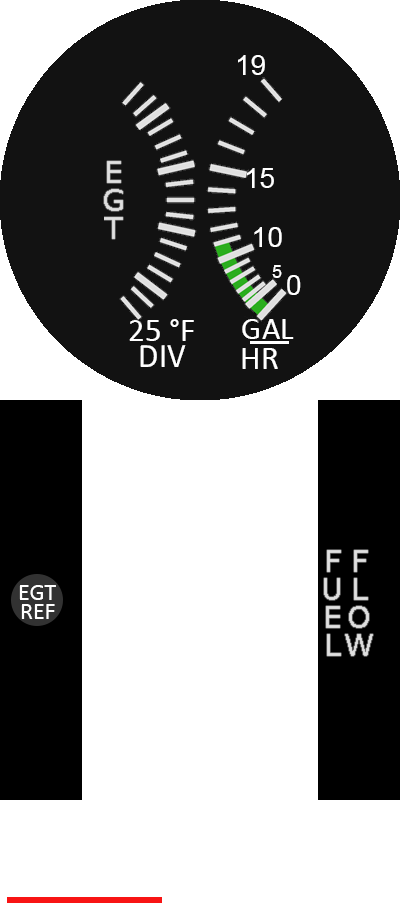
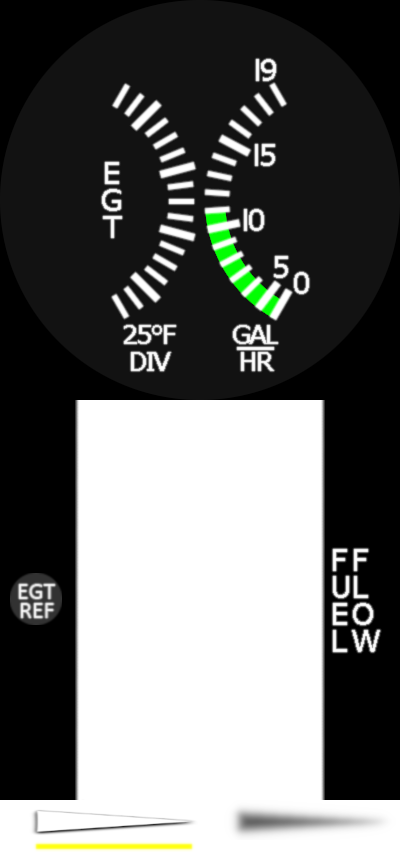
Implement last few gauges

Changed region(s): [[0.0, 0.061, 1.0, 1.0], [0.6, 0.0, 1.0, 0.2136], [0.0, 0.0, 0.42, 0.1831]]

diff --git a/instrument-panel/instruments/egt.cpp b/instrument-panel/instruments/egt.cpp
@@ -19,7 +19,7 @@ void egt::resize()
 {
     destroyBitmaps();
 
-    // Create bitmaps scaled to correct size (original size is 800)
+    // Create bitmaps scaled to correct size (original size is 400)
     scaleFactor = size / 400.0f;
 
     // 0 = Original (loaded) bitmap
@@ -46,24 +46,18 @@ void egt::resize()
     al_draw_scaled_bitmap(orig, 0, 400, 400, 400, 0, 0, size, size, 0);
     addBitmap(bmp);
 
-    // 4 = Flow Pointer
+    // 4 = Pointer
     bmp = al_create_bitmap(200, 40);
     al_set_target_bitmap(bmp);
     al_draw_bitmap_region(orig, 0, 800, 200, 40, 0, 0, 0);
     addBitmap(bmp);
 
-    // 5 = EGT Pointer
-    bmp = al_create_bitmap(200, 40);
+    // 5 = Ref pointer
+    bmp = al_create_bitmap(200, 12);
     al_set_target_bitmap(bmp);
-    al_draw_bitmap_region(orig, 14, 840, 139, 40, 0, 0, 0);
+    al_draw_bitmap_region(orig, 0, 840, 200, 12, 0, 0, 0);
     addBitmap(bmp);
 
-    // 6 = EGT Ref Pointer
-    bmp = al_create_bitmap(200, 40);
-    al_set_target_bitmap(bmp);
-    al_draw_bitmap_region(orig, 7, 880, 155, 40, 0, 0, 0);
-    addBitmap(bmp);
-    
     al_set_target_backbuffer(globals.display);
 }
 
@@ -85,14 +79,14 @@ void egt::render()
     // Add dials
     al_draw_bitmap(bitmaps[2], 0, 0, 0);
 
-    // Add Flow pointer
-    al_draw_scaled_rotated_bitmap(bitmaps[4], 186, 20, 386 * scaleFactor, 200 * scaleFactor, scaleFactor, scaleFactor, flowAngle * DegreesToRadians, 0);
+    // Add ref pointer
+    al_draw_scaled_rotated_bitmap(bitmaps[5], 60, 6, 60 * scaleFactor, 200 * scaleFactor, scaleFactor, scaleFactor, egtRefAngle * DegreesToRadians, 0);
 
-    // Add EGT pointer
-    al_draw_scaled_rotated_bitmap(bitmaps[5], 0, 20, 38 * scaleFactor, 200 * scaleFactor, scaleFactor, scaleFactor, egtAngle * DegreesToRadians, 0);
+    // Add left pointer
+    al_draw_scaled_rotated_bitmap(bitmaps[4], 60, 20, 60 * scaleFactor, 200 * scaleFactor, scaleFactor, scaleFactor, egtAngle * DegreesToRadians, 0);
 
-    // Add EGT Ref pointer
-    al_draw_scaled_rotated_bitmap(bitmaps[6], 0, 20, 38 * scaleFactor, 200 * scaleFactor, scaleFactor, scaleFactor, egtRefAngle * DegreesToRadians, 0);
+    // Add right pointer
+    al_draw_scaled_rotated_bitmap(bitmaps[4], 60, 20, 340 * scaleFactor, 200 * scaleFactor, scaleFactor, scaleFactor, flowAngle * DegreesToRadians, 0);
 
     // Add top layer
     al_draw_bitmap(bitmaps[3], 0, 0, 0);
@@ -112,6 +106,13 @@ void egt::render()
 /// </summary>
 void egt::update()
 {
+    // Check for aircraft change
+    bool aircraftChanged = (loadedAircraft != globals.aircraft);
+    if (aircraftChanged) {
+        loadedAircraft = globals.aircraft;
+        egtRefAngle = 62;
+    }
+
     // Check for position or size change
     long *settings = globals.simVars->readSettings(name, xPos, yPos, size);
 
@@ -124,19 +125,31 @@ void egt::update()
     }
 
     // Calculate values
-    if (simVars->exhaustGasTemp < 680)
-        egtAngle = 52;
-    else
-        egtAngle = -0.4496*simVars->exhaustGasTemp+357.74;
-    float tmp = simVars->exhaustGasTempGES/16384;
-    egtRefAngle = 101.718*pow(tmp,3) - 104.843 * pow(tmp, 2) - 96.894 * tmp + 49.022;
-    tmp = simVars->engineFuelFlow;
-    flowAngle = -.02 * pow(tmp, 3) + .6759 * pow(tmp, 2) - 1.6837 * tmp - 41.4675;
+    egtAngle = 62 - (simVars->exhaustGasTemp - 680) * 0.527885;
+    if (egtAngle < -60) {
+        egtAngle = -60;
+    }
+    else if (egtAngle > 62) {
+        egtAngle = 62;
+    }
 
-    // Gauge not working so just zero out for now
-    egtAngle = 52;
-    egtRefAngle = 49;
-    flowAngle = -43;
+    if (egtAngle < egtRefAngle) {
+        egtRefAngle = egtAngle;
+    }
+
+    if (simVars->engineFuelFlow > 5) {
+        flowAngle = 126 + (simVars->engineFuelFlow - 5) * 8;
+    }
+    else {
+        flowAngle = 118 + simVars->engineFuelFlow * 1.6;
+    }
+
+    if (flowAngle < 118) {
+        flowAngle = 118;
+    }
+    else if (flowAngle >238) {
+        flowAngle = 238;
+    }
 }
 
 /// <summary>
@@ -145,7 +158,5 @@ void egt::update()
 void egt::addVars()
 {
     globals.simVars->addVar(name, "General Eng Exhaust Gas Temperature:1", false, 1, 0);
-    globals.simVars->addVar(name, "Eng Exhaust Gas Temperature GES:1", false, 1, 0);
     globals.simVars->addVar(name, "Eng Fuel Flow GPH:1", false, 1, 0);
-
 }

diff --git a/instrument-panel/instruments/vac.cpp b/instrument-panel/instruments/vac.cpp
@@ -7,6 +7,7 @@ vac::vac(int xPos, int yPos, int size) : instrument(xPos, yPos, size)
 {
     setName("VAC");
     addVars();
+    simVars = &globals.simVars->simVars;
     resize();
 }
 
@@ -17,7 +18,7 @@ void vac::resize()
 {
     destroyBitmaps();
 
-    // Create bitmaps scaled to correct size (original size is 800)
+    // Create bitmaps scaled to correct size (original size is 400)
     scaleFactor = size / 400.0f;
 
     // 0 = Original (loaded) bitmap
@@ -32,10 +33,22 @@ void vac::resize()
     ALLEGRO_BITMAP* bmp = al_create_bitmap(size, size);
     addBitmap(bmp);
 
-    // 2 = Main dial
+    // 2 = Dials
     bmp = al_create_bitmap(size, size);
     al_set_target_bitmap(bmp);
     al_draw_scaled_bitmap(orig, 0, 0, 400, 400, 0, 0, size, size, 0);
+    addBitmap(bmp);
+
+    // 3 = Top layer
+    bmp = al_create_bitmap(size, size);
+    al_set_target_bitmap(bmp);
+    al_draw_scaled_bitmap(orig, 0, 400, 400, 400, 0, 0, size, size, 0);
+    addBitmap(bmp);
+
+    // 4 = Pointer
+    bmp = al_create_bitmap(200, 40);
+    al_set_target_bitmap(bmp);
+    al_draw_bitmap_region(orig, 0, 800, 200, 40, 0, 0, 0);
     addBitmap(bmp);
 
     al_set_target_backbuffer(globals.display);
@@ -56,8 +69,17 @@ void vac::render()
     // Draw stuff into dest bitmap
     al_set_target_bitmap(bitmaps[1]);
 
-    // Add main dial
+    // Add dials
     al_draw_bitmap(bitmaps[2], 0, 0, 0);
+
+    // Add left pointer
+    al_draw_scaled_rotated_bitmap(bitmaps[4], 60, 20, 60 * scaleFactor, 200 * scaleFactor, scaleFactor, scaleFactor, vacAngle * DegreesToRadians, 0);
+
+    // Add right pointer
+    al_draw_scaled_rotated_bitmap(bitmaps[4], 60, 20, 340 * scaleFactor, 200 * scaleFactor, scaleFactor, scaleFactor, ampAngle * DegreesToRadians, 0);
+
+    // Add top layer
+    al_draw_bitmap(bitmaps[3], 0, 0, 0);
 
     // Position dest bitmap on screen
     al_set_target_backbuffer(globals.display);
@@ -85,11 +107,22 @@ void vac::update()
         resize();
     }
 
-    // Get latest FlightSim variables
-    SimVars* simVars = &globals.simVars->simVars;
-
     // Calculate values
-    angle = simVars->adiBank / 100.0f;
+    vacAngle = 60 - (simVars->suctionPressure - 3) * 30;
+    if (vacAngle < -60) {
+        vacAngle = -60;
+    }
+    else if (vacAngle > 60) {
+        vacAngle = 60;
+    }
+
+    ampAngle = 119 + (simVars->batteryLoad + 60);
+    if (ampAngle < 119) {
+        ampAngle = 119;
+    }
+    else if (ampAngle > 239) {
+        ampAngle = 239;
+    }
 }
 
 /// <summary>

diff --git a/instrument-panel/instruments/oil.cpp b/instrument-panel/instruments/oil.cpp
@@ -18,7 +18,7 @@ void oil::resize()
 {
     destroyBitmaps();
 
-    // Create bitmaps scaled to correct size (original size is 800)
+    // Create bitmaps scaled to correct size (original size is 400)
     scaleFactor = size / 400.0f;
 
     // 0 = Original (loaded) bitmap
@@ -33,10 +33,22 @@ void oil::resize()
     ALLEGRO_BITMAP* bmp = al_create_bitmap(size, size);
     addBitmap(bmp);
 
-    // 2 = Main dial
+    // 2 = Dials
     bmp = al_create_bitmap(size, size);
     al_set_target_bitmap(bmp);
     al_draw_scaled_bitmap(orig, 0, 0, 400, 400, 0, 0, size, size, 0);
+    addBitmap(bmp);
+
+    // 3 = Top layer
+    bmp = al_create_bitmap(size, size);
+    al_set_target_bitmap(bmp);
+    al_draw_scaled_bitmap(orig, 0, 400, 400, 400, 0, 0, size, size, 0);
+    addBitmap(bmp);
+
+    // 4 = Pointer
+    bmp = al_create_bitmap(200, 40);
+    al_set_target_bitmap(bmp);
+    al_draw_bitmap_region(orig, 0, 800, 200, 40, 0, 0, 0);
     addBitmap(bmp);
 
     al_set_target_backbuffer(globals.display);
@@ -57,8 +69,17 @@ void oil::render()
     // Draw stuff into dest bitmap
     al_set_target_bitmap(bitmaps[1]);
 
-    // Add main dial
+    // Add dials
     al_draw_bitmap(bitmaps[2], 0, 0, 0);
+
+    // Add left pointer
+    al_draw_scaled_rotated_bitmap(bitmaps[4], 60, 20, 60 * scaleFactor, 200 * scaleFactor, scaleFactor, scaleFactor, tempAngle * DegreesToRadians, 0);
+
+    // Add right pointer
+    al_draw_scaled_rotated_bitmap(bitmaps[4], 60, 20, 340 * scaleFactor, 200 * scaleFactor, scaleFactor, scaleFactor, pressureAngle * DegreesToRadians, 0);
+
+    // Add top layer
+    al_draw_bitmap(bitmaps[3], 0, 0, 0);
 
     // Position dest bitmap on screen
     al_set_target_backbuffer(globals.display);
@@ -87,7 +108,27 @@ void oil::update()
     }
 
     // Calculate values
-    angle = simVars->adiBank / 100.0f;
+    if (simVars->oilTemp > 100) {
+        tempAngle = 40 - (simVars->oilTemp - 100) * 0.7;
+    }
+    else {
+        tempAngle = 50 - (simVars->oilTemp - 75) * 0.4;
+    }
+
+    if (tempAngle < -61.5) {
+        tempAngle = -61.5;
+    }
+    else if (tempAngle > 50) {
+        tempAngle = 50;
+    }
+
+    pressureAngle = 129 + simVars->oilPressure;
+    if (pressureAngle < 129) {
+        pressureAngle = 129;
+    }
+    else if (pressureAngle > 244) {
+        pressureAngle = 244;
+    }
 }
 
 /// <summary>

diff --git a/instrument-panel/instruments/fuel.cpp b/instrument-panel/instruments/fuel.cpp
@@ -52,12 +52,6 @@ void fuel::resize()
     al_draw_bitmap_region(orig, 0, 800, 200, 40, 0, 0, 0);
     addBitmap(bmp);
 
-    // 5 = Pointer shadow
-    bmp = al_create_bitmap(200, 40);
-    al_set_target_bitmap(bmp);
-    al_draw_bitmap_region(orig, 200, 800, 200, 40, 0, 0, 0);
-    addBitmap(bmp);
-
     al_set_target_backbuffer(globals.display);
 }
 
@@ -79,25 +73,11 @@ void fuel::render()
     // Add dials
     al_draw_bitmap(bitmaps[2], 0, 0, 0);
 
-    if (globals.enableShadows) {
-        // Set blender to multiply (shades of grey darken, white has no effect)
-        al_set_blender(ALLEGRO_ADD, ALLEGRO_DEST_COLOR, ALLEGRO_ZERO);
-
-        // Add left pointer shadow
-        al_draw_scaled_rotated_bitmap(bitmaps[5], 72, 20, 82 * scaleFactor, 210 * scaleFactor, scaleFactor, scaleFactor, angleLeft * DegreesToRadians, 0);
-
-        // Add right pointer shadow
-        al_draw_scaled_rotated_bitmap(bitmaps[5], 72, 20, 338 * scaleFactor, 210 * scaleFactor, scaleFactor, scaleFactor, angleRight * DegreesToRadians, 0);
-
-        // Restore normal blender
-        al_set_blender(ALLEGRO_ADD, ALLEGRO_ALPHA, ALLEGRO_INVERSE_ALPHA);
-    }
-
     // Add left pointer
-    al_draw_scaled_rotated_bitmap(bitmaps[4], 72, 20, 72 * scaleFactor, 200 * scaleFactor, scaleFactor, scaleFactor, angleLeft * DegreesToRadians, 0);
+    al_draw_scaled_rotated_bitmap(bitmaps[4], 60, 20, 60 * scaleFactor, 200 * scaleFactor, scaleFactor, scaleFactor, angleLeft * DegreesToRadians, 0);
 
     // Add right pointer
-    al_draw_scaled_rotated_bitmap(bitmaps[4], 72, 20, 328 * scaleFactor, 200 * scaleFactor, scaleFactor, scaleFactor, angleRight * DegreesToRadians, 0);
+    al_draw_scaled_rotated_bitmap(bitmaps[4], 60, 20, 340 * scaleFactor, 200 * scaleFactor, scaleFactor, scaleFactor, angleRight * DegreesToRadians, 0);
 
     // Add top layer
     al_draw_bitmap(bitmaps[3], 0, 0, 0);
@@ -129,8 +109,8 @@ void fuel::update()
     }
 
     // Calculate values
-    angleLeft = 51 - simVars->fuelLeft * 1.02;
-    angleRight = 127 + simVars->fuelRight * 1.04;
+    angleLeft = 55 - simVars->fuelLeft * 1.144;
+    angleRight = 124 + simVars->fuelRight * 1.144;
 }
 
 /// <summary>

diff --git a/instrument-panel/simvarDefs.cpp b/instrument-panel/simvarDefs.cpp
@@ -84,7 +84,6 @@ const char* SimVarDefs[][2] = {
     { "General Eng Oil Temperature:1", "fahrenheit" },
     { "General Eng Oil Pressure:1", "psi" },
     { "General Eng Exhaust Gas Temperature:1", "celsius" },
-    { "Eng Exhaust Gas Temperature GES:1", "percent scaler 16k" },
     { "Eng Fuel Flow GPH:1", "gallon per hour" },
     { "Suction Pressure", "inch of mercury" },
     { "Atc Id", "string64" },

diff --git a/instrument-panel/instruments/egt.h b/instrument-panel/instruments/egt.h
@@ -8,11 +8,12 @@ class egt : public instrument
 {
 private:
     SimVars* simVars;
+    Aircraft loadedAircraft = NO_AIRCRAFT;
     float scaleFactor;
 
     // Instrument values (caclulated from variables and needed to draw the instrument)
     double egtAngle;
-    double egtRefAngle;
+    double egtRefAngle = 62;
     double flowAngle;
 
 public:

diff --git a/instrument-panel/instruments/vac.h b/instrument-panel/instruments/vac.h
@@ -7,10 +7,12 @@
 class vac : public instrument
 {
 private:
+    SimVars* simVars;
     float scaleFactor;
 
     // Instrument values (caclulated from variables and needed to draw the instrument)
-    double angle;
+    double vacAngle;
+    double ampAngle;
 
 public:
     vac(int xPos, int yPos, int size);

diff --git a/instrument-panel/instruments/oil.h b/instrument-panel/instruments/oil.h
@@ -11,7 +11,8 @@ private:
     float scaleFactor;
 
     // Instrument values (caclulated from variables and needed to draw the instrument)
-    double angle;
+    double tempAngle;
+    double pressureAngle;
 
 public:
     oil(int xPos, int yPos, int size);

diff --git a/instrument-panel/simvarDefs.h b/instrument-panel/simvarDefs.h
@@ -86,7 +86,6 @@ struct SimVars
     double oilTemp = 75;
     double oilPressure = 50;
     double exhaustGasTemp = 0;
-    double exhaustGasTempGES = 0;
     double engineFuelFlow = 0;
     double suctionPressure = 1;
     char atcTailNumber[64] = "\0";
